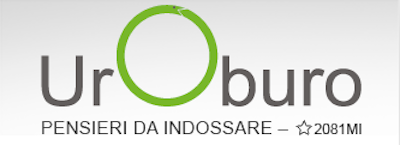
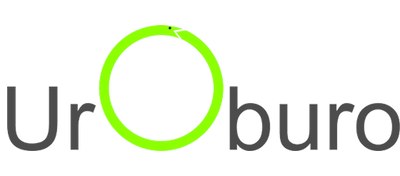
changes

diff --git a/index.html b/index.html
@@ -217,7 +217,7 @@
                                 <i class="fa fa-plus fa-3x"></i>
                             </div>
                         </div>
-                        <img src="img/portfolio/uroburo-header-2.png" class="img-responsive" alt="">
+                        <img src="img/portfolio/uroburo-header.png" class="img-responsive" alt="">
                     </a>
                     <div class="portfolio-caption">
                         <h4>Uroburo</h4>
@@ -350,17 +350,17 @@
                     </div>
                 </div>
                 <div class="col-md-4 col-sm-6 portfolio-item">
-                    <a href="#portfolioModal2" class="portfolio-link" data-toggle="modal">
+                    <a href="#portfolioModal12" class="portfolio-link" data-toggle="modal">
                         <div class="portfolio-hover">
                             <div class="portfolio-hover-content">
                                 <i class="fa fa-plus fa-3x"></i>
                             </div>
                         </div>
-                        <img src="img/portfolio/startup-framework.png" class="img-responsive" alt="">
+                        <img src="img/portfolio/farsiprossimo-header.png" class="img-responsive" alt="">
                     </a>
                     <div class="portfolio-caption">
-                        <h4>BeB The alle Cinque</h4>
-                        <p class="text-muted">Padroni da casa</p>
+                        <h4>Farsi Prossimo</h4>
+                        <p class="text-muted">Servizi socio-educativi a favore di soggetti in difficoltà, emarginati e/o a rischio di emarginazione e devianza</p>
                     </div>
                 </div>
                 <div class="col-md-4 col-sm-6 portfolio-item">
@@ -373,8 +373,8 @@
                         <img src="img/portfolio/donazionelibera-header.jpg" class="img-responsive" alt="">
                     </a>
                     <div class="portfolio-caption">
-                        <h4>Donazione libera</h4>
-                        <p class="text-muted">Ogni luogo ha tanti esempi di buona volonta' da sostenere</p>
+                        <h4>Scegli la tua realtà</h4>
+                        <p class="text-muted">Sei in contatto una realtà che opera nel tuo territorio e vuoi sostenerla? Hai tutto il nostro appoggio!</p>
                     </div>
                 </div>
             </div>
@@ -521,9 +521,40 @@
                             <h2>Anffas Civitanova Marche</h2>
                             <p class="item-intro text-muted">Associazione Nazionale Famiglie di persone con disabilita' intellettiva e/o relazionale</p>
                             <img class="img-responsive img-centered" src="img/portfolio/anffas-full.jpg" alt="">
-                            <p>L’Anffas è un’associazione di famiglie coinvolte nel problema della diversa abilità che ha maturato nel corso di questi decenni una sempre più profonda coscienza del proprio ruolo educativo nei confronti dei propri ragazzi “speciali” riconosciuto in italia dalle stesse norme costituzionali.</p>
+                            <p><a href="http://www.anffas-civitanovamarche.it">L’Anffas</a> è un’associazione di famiglie coinvolte nel problema della diversa abilità che ha maturato nel corso di questi decenni una sempre più profonda coscienza del proprio ruolo educativo nei confronti dei propri ragazzi “speciali” riconosciuto in italia dalle stesse norme costituzionali.</p>
                             <p>Superando l’ottica della disabilità come problema subito, è arrivata ad affrontarlo attuando sinergie con le strutture sociali del territorio, in un’osmosi di solidarietà capace di trasformare il problema stesso in risorsa.</p>
                             <p><strong><a href="http://www.anffas-civitanovamarche.it/donazione-on-line">Informazioni per donare</a></strong></p>
+                            <button type="button" class="btn btn-primary" data-dismiss="modal"><i class="fa fa-times"></i> Chiudi</button>
+                        </div>
+                    </div>
+                </div>
+            </div>
+        </div>
+    </div>
+
+    <!-- Portfolio Modal 12 - Farsi Prossimo -->
+    <div class="portfolio-modal modal fade" id="portfolioModal12" tabindex="-1" role="dialog" aria-hidden="true">
+        <div class="modal-content">
+            <div class="close-modal" data-dismiss="modal">
+                <div class="lr">
+                    <div class="rl">
+                    </div>
+                </div>
+            </div>
+            <div class="container">
+                <div class="row">
+                    <div class="col-lg-8 col-lg-offset-2">
+                        <div class="modal-body">
+                            <!-- Project Details Go Here -->
+                            <h2>Farsi Prossimo Milano</h2>
+                            <p class="item-intro text-muted">Servizi socio-educativi a favore di soggetti in difficoltà, emarginati e/o a rischio di emarginazione e devianza</p>
+                            <img class="img-responsive img-centered" src="img/portfolio/farsiprossimo-full.png" alt="">
+                            <p><a href="http://www.farsiprossimo.it/">Farsi Prossimo</a> si prefigge di perseguire lo sviluppo integrale dell’uomo, l’integrazione sociale, la cura e la presa in carico dei soggetti deboli, attraverso la gestione di servizi socio-educativi a favore di soggetti in difficoltà, emarginati e/o a rischio di emarginazione e devianza.</p>
+                            <p>La gestione di questi servizi ha una doppia caratteristica promozionale e sperimentale: testimonia in maniera tempestiva la possibilità reale di prendersi cura del bisogno anche quando questo è nuovo, sconosciuto e problematico; favorisce la definizione di un modello d’intervento sociale efficace, attento alla globalità della persona, innovativo e coinvolgente per il territorio.</p>
+                            <p>Oggi la Cooperativa è impegnata nelle seguenti aree di intervento: Area Donne vittime della tratta, Area Stranieri: Centri di accoglienza e Seconda accoglienza, Area Grave Emarginazione, Area Minori, famiglia e territorio, Area Minori e famiglia residenziale</p>
+                            <p></p>
+                            <p></p>
+                            <p><strong><a href="http://www.farsiprossimo.it/sostienici-2">Informazioni per donare</a></strong></p>
                             <button type="button" class="btn btn-primary" data-dismiss="modal"><i class="fa fa-times"></i> Chiudi</button>
                         </div>
                     </div>
@@ -546,12 +577,10 @@
                     <div class="col-lg-8 col-lg-offset-2">
                         <div class="modal-body">
                             <!-- Project Details Go Here -->
-                            <h2>Vuoi supportare un'associazione in particolare?</h2>
-                            <p class="item-intro text-muted">Ogni luogo ha tanti esempi di buona volonta' da sostenere</p>
+                            <h2>Scegli la realtà da supportare</h2>
+                            <p class="item-intro text-muted">Ogni luogo ha tanti esempi di buona volontà da sostenere</p>
                             <img class="img-responsive img-centered" src="img/portfolio/donazionelibera-full.jpg" alt="">
-                            <p>L’Anffas è un’associazione di famiglie coinvolte nel problema della diversa abilità che ha maturato nel corso di questi decenni una sempre più profonda coscienza del proprio ruolo educativo nei confronti dei propri ragazzi “speciali” riconosciuto in italia dalle stesse norme costituzionali.</p>
-                            <p>Superando l’ottica della disabilità come problema subito, è arrivata ad affrontarlo attuando sinergie con le strutture sociali del territorio, in un’osmosi di solidarietà capace di trasformare il problema stesso in risorsa.</p>
-                            <p><strong><a href="http://www.anffas-civitanovamarche.it/donazione-on-line">Informazioni per donare</a></strong></p>
+                            <p>Conosci o collabori con una realtà sul tuo territorio meritevole di supporto? Ottimo, supportarli pure come meglio credi, a noi va benissimo!</p>
                             <button type="button" class="btn btn-primary" data-dismiss="modal"><i class="fa fa-times"></i> Chiudi</button>
                         </div>
                     </div>
